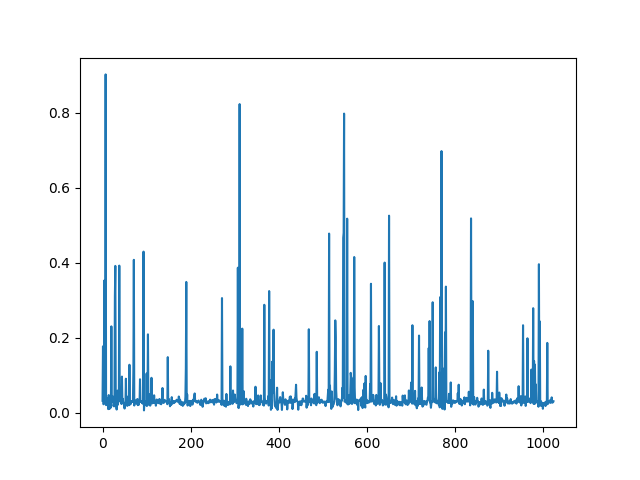
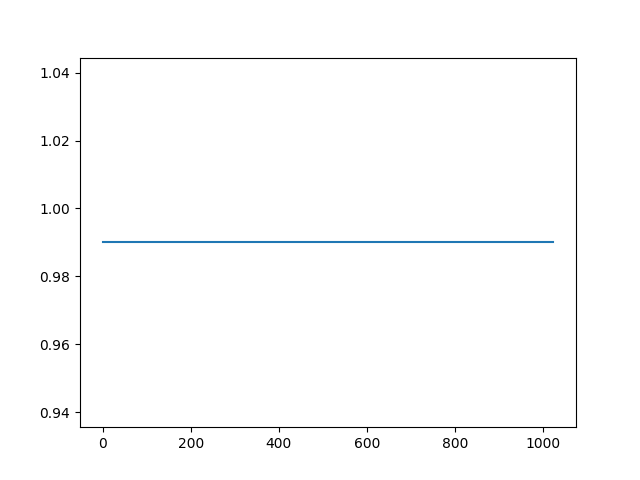
Finished private pred protocol

diff --git a/ensemble.py b/ensemble.py
@@ -93,7 +93,7 @@ class Ensemble():
                                                     output_dists[self.num_ensemble].cpu(),
                                                     i
                                                     ) for i in range(self.num_ensemble)]
-        #self.lambdas = [0 for _ in range(self.num_ensemble)]
+        #self.lambdas = [0.99 for _ in range(self.num_ensemble)]
         self.lambda_history.append(np.mean(self.lambdas))
         mixed_dists = [self.mix(output_dists[i], output_dists[self.num_ensemble], self.lambdas[i])
                        for i in range(self.num_ensemble)]
